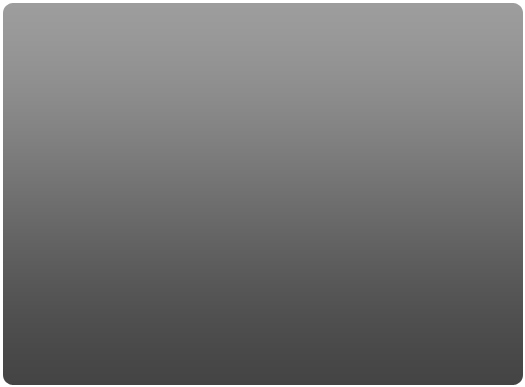
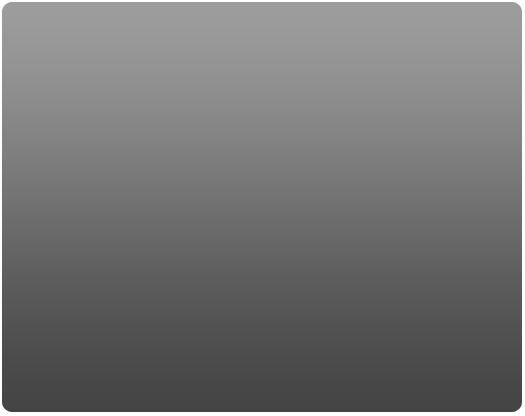
Fixed bold links in Firefox, updated index image. Patrick reviewed.
git-svn-id: svn+ssh://in.cns.iu.edu/projects/svn/nwb/trunk@3293 c287de05-5010-0410-818a-8f02fb49d6a9

Changed region(s): [[0.0, 0.9612, 1.0, 1.0], [0.0, 0.0, 0.0305, 0.031]]

diff --git a/epic/core/media/css/epic.css b/epic/core/media/css/epic.css
@@ -247,7 +247,8 @@ h4 {
 	font-weight: bold; font-size:55%;
 	text-transform: uppercase; display:inline;
 }
-
+.category a, .category a:hover, .category a:visited {font-weight: bold; 
+	text-transform: uppercase; display:inline;}
 
 
 .highlight {
@@ -266,6 +267,11 @@ h4 {
 	width: 420px;
 		
 }
+
+.geoindex {font-weight: bold;
+	color: #FFFFFF;
+	padding-left: 5px; margin-bottom:10px;}
+
 
 
 #leftsidebarindex {left:-15em;}
@@ -497,15 +503,20 @@ p {
 	margin-bottom:10px;
 }
 
-.requests h2, {
+.requests h2, .requests h2 a, .requests h2 a:visited {
 	background: none;
-display:block;
-	font-size: 90%;
-	font-weight: bold; margin:0; padding:0;
+display:inline;
+	font-size: 90%;font-weight: bold;
+	 margin:0; padding:0;
 }
 
 
-
+.requestspage h2 a, .requestspage h2 a:visited  {
+	background:none; 
+	display: block;
+margin-bottom:10px; margin-top:5px;
+	font-weight: bold;
+}
 .requestspage {
 	background-color: #fefdd2;
 	border-bottom-color: #CCCCCC;
@@ -515,12 +526,7 @@ display:block;
 	padding:5px;
 }
 
-.requestspage h2 a {
-	background:none; 
-	display: block;
-margin-bottom:10px; margin-top:5px;
-	font-weight: bold;
-}
+
 
 .requests p {
 	display: inline;
@@ -682,13 +688,13 @@ li.tagbox-base {
 #username {
 	float: left;
 	margin-top: 50px;
-	margin-left: 75px;
+	margin-left: 65px;
 }
 
 #password {
 	float: right;
 	margin-top: 50px;
-	margin-right: 75px;
+	margin-right: 65px;
 }
 @charset "UTF-8";
 /* CSS Document */
@@ -800,7 +806,7 @@ width:26.1em;  padding:0; margin-left:5px;
  
 
 
-#nav a {
+#nav a, #nav a:visited {
 	display: block;
 	padding-top:10px;
 	height:40px;
@@ -1016,11 +1022,12 @@ a img {border:none;}
 	background-color: #fefdd2; padding:5px;
 }
 
-.requestspage h2 {
+.requestspage h2, .requestspage h2 a, .requestspage h2 a:hover, .requestspage h2 a:visited {
 	font-size:90%;
 	display:inline;
 	font-weight: bold;  background:none; 
 }
+
 
 .requests p {display:inline; }
 

diff --git a/epic/core/templates/core/site_index.html b/epic/core/templates/core/site_index.html
@@ -21,7 +21,7 @@
     <area shape="rect" coords="5,5,505,94" href="{% url core.views.about %}" />
   </map>
   
-  <table width="525" height="387" border="0" cellpadding="5" cellspacing="0" background="/core_media/images/epic-index_18.jpg">
+  <table width="525" height="416" border="0" cellpadding="5" cellspacing="0" background="/core_media/images/epic-index_18.jpg">
     <tr>
       <td valign="top">
         <span class="geoindex">
